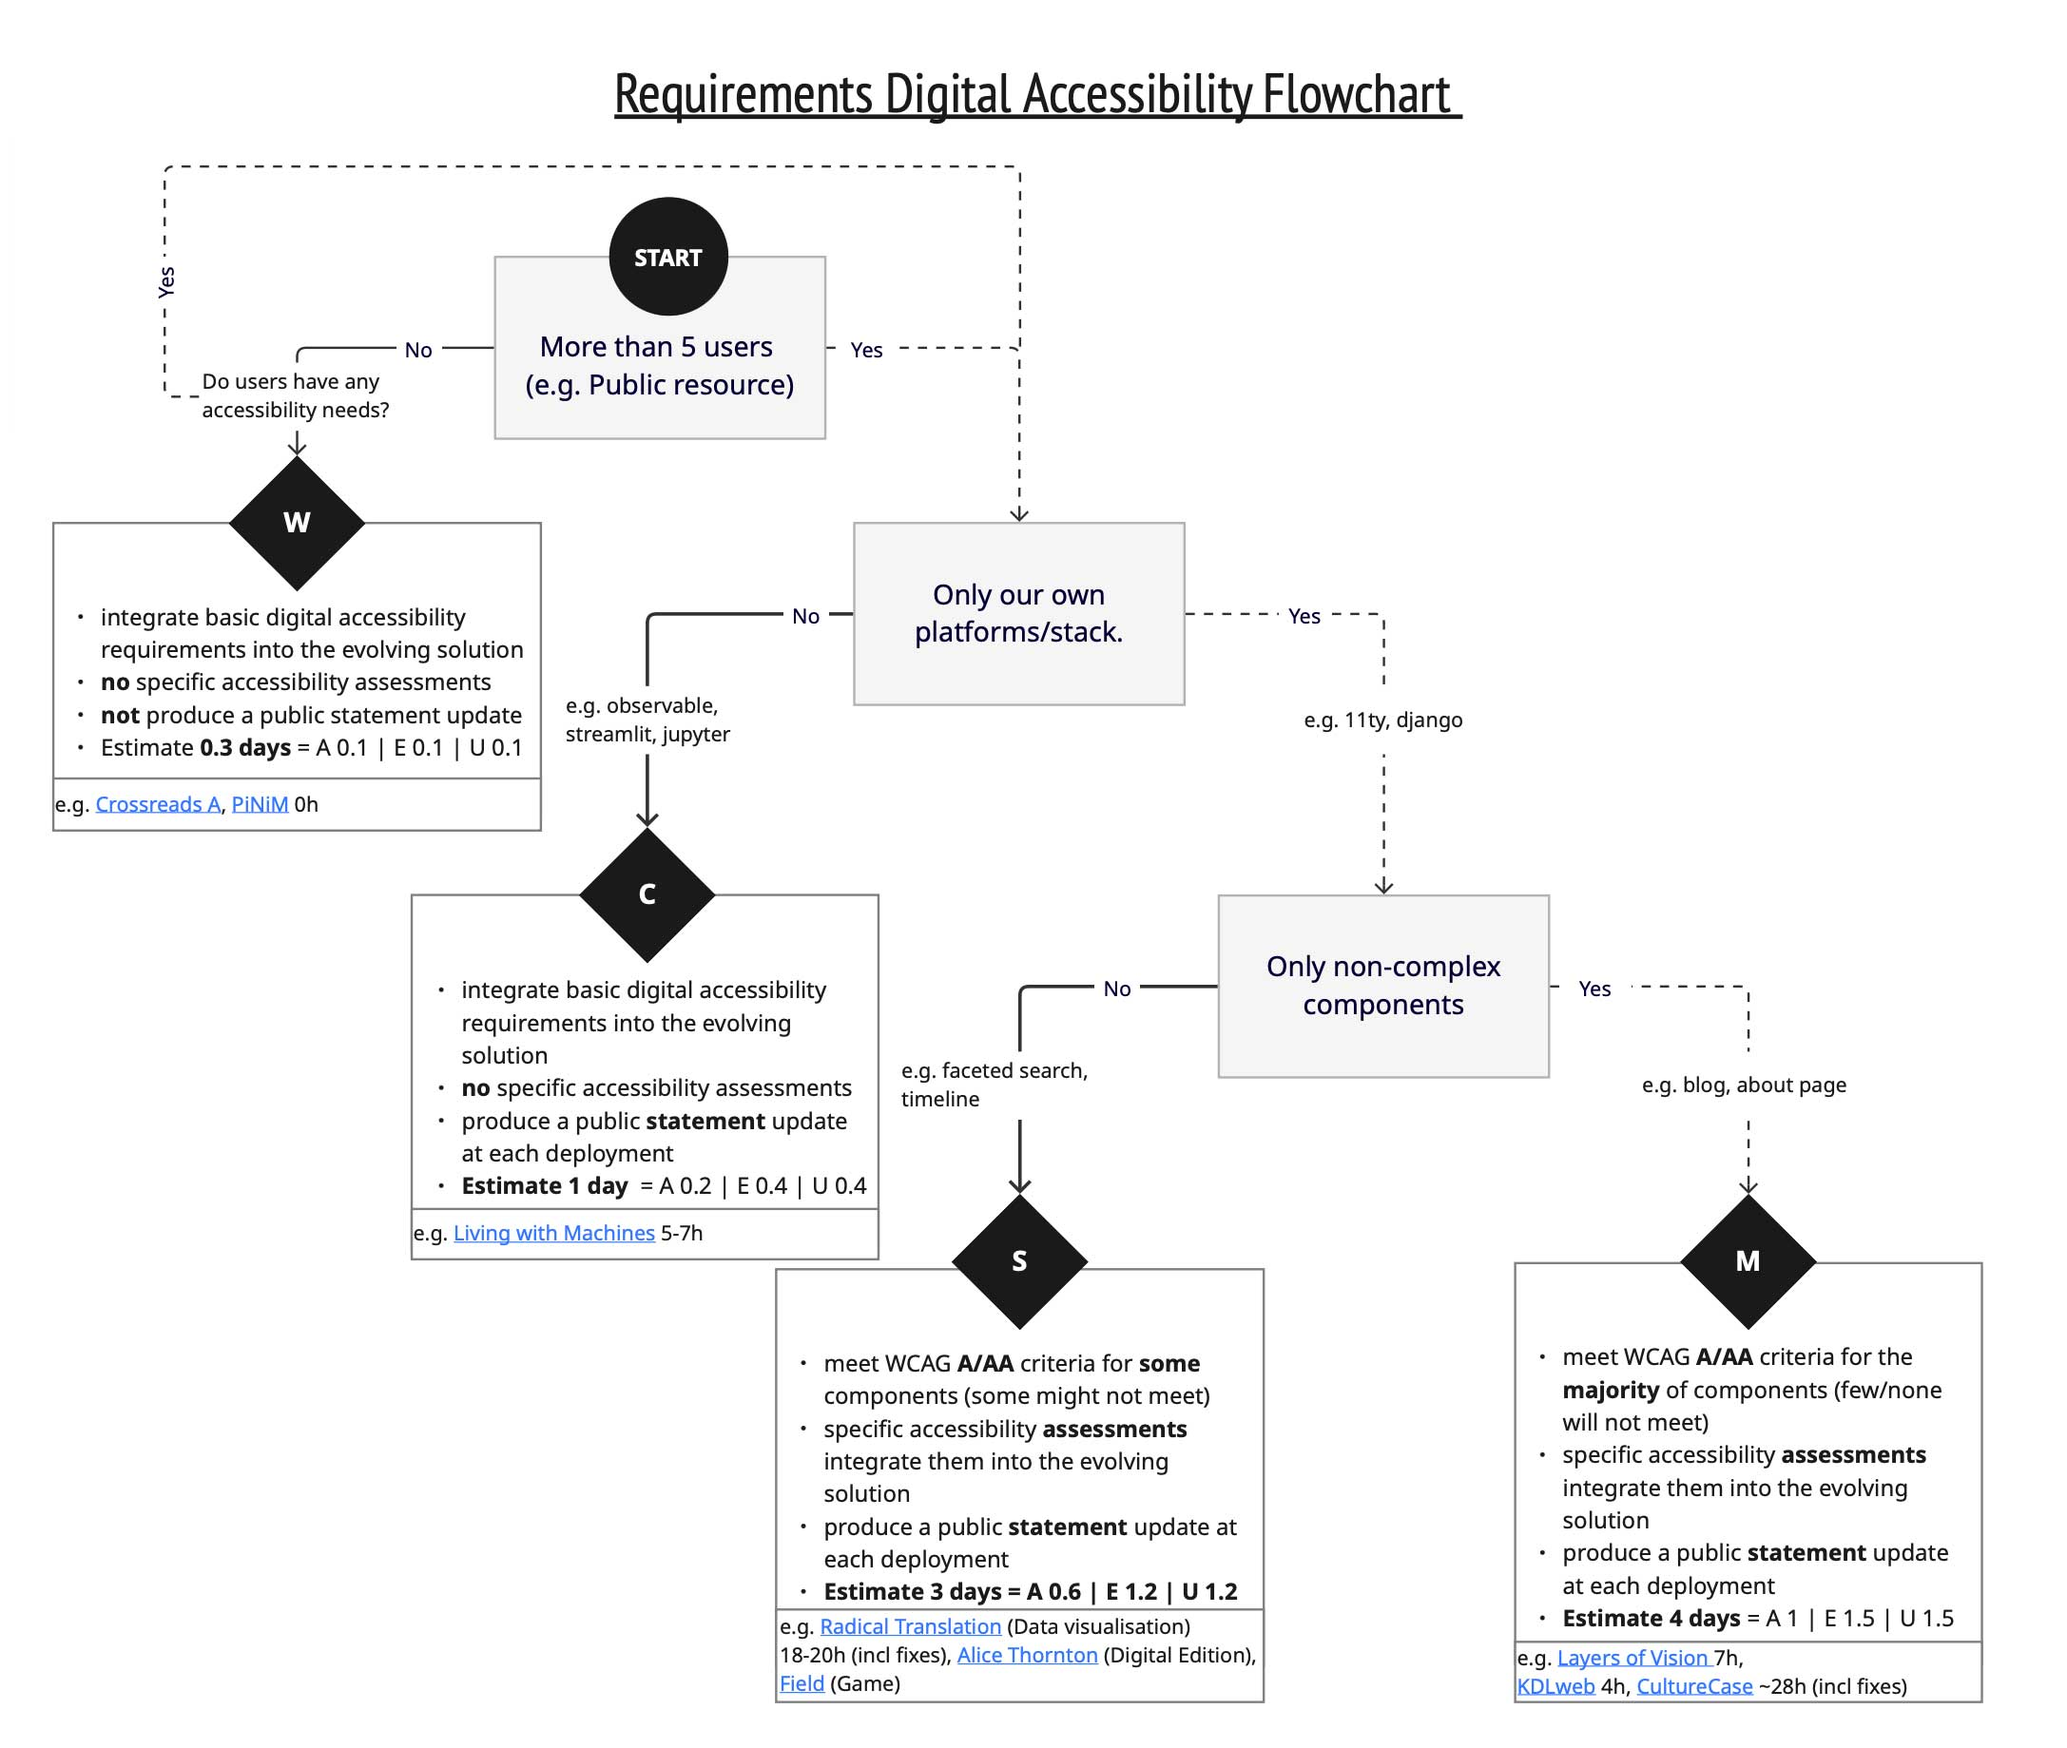
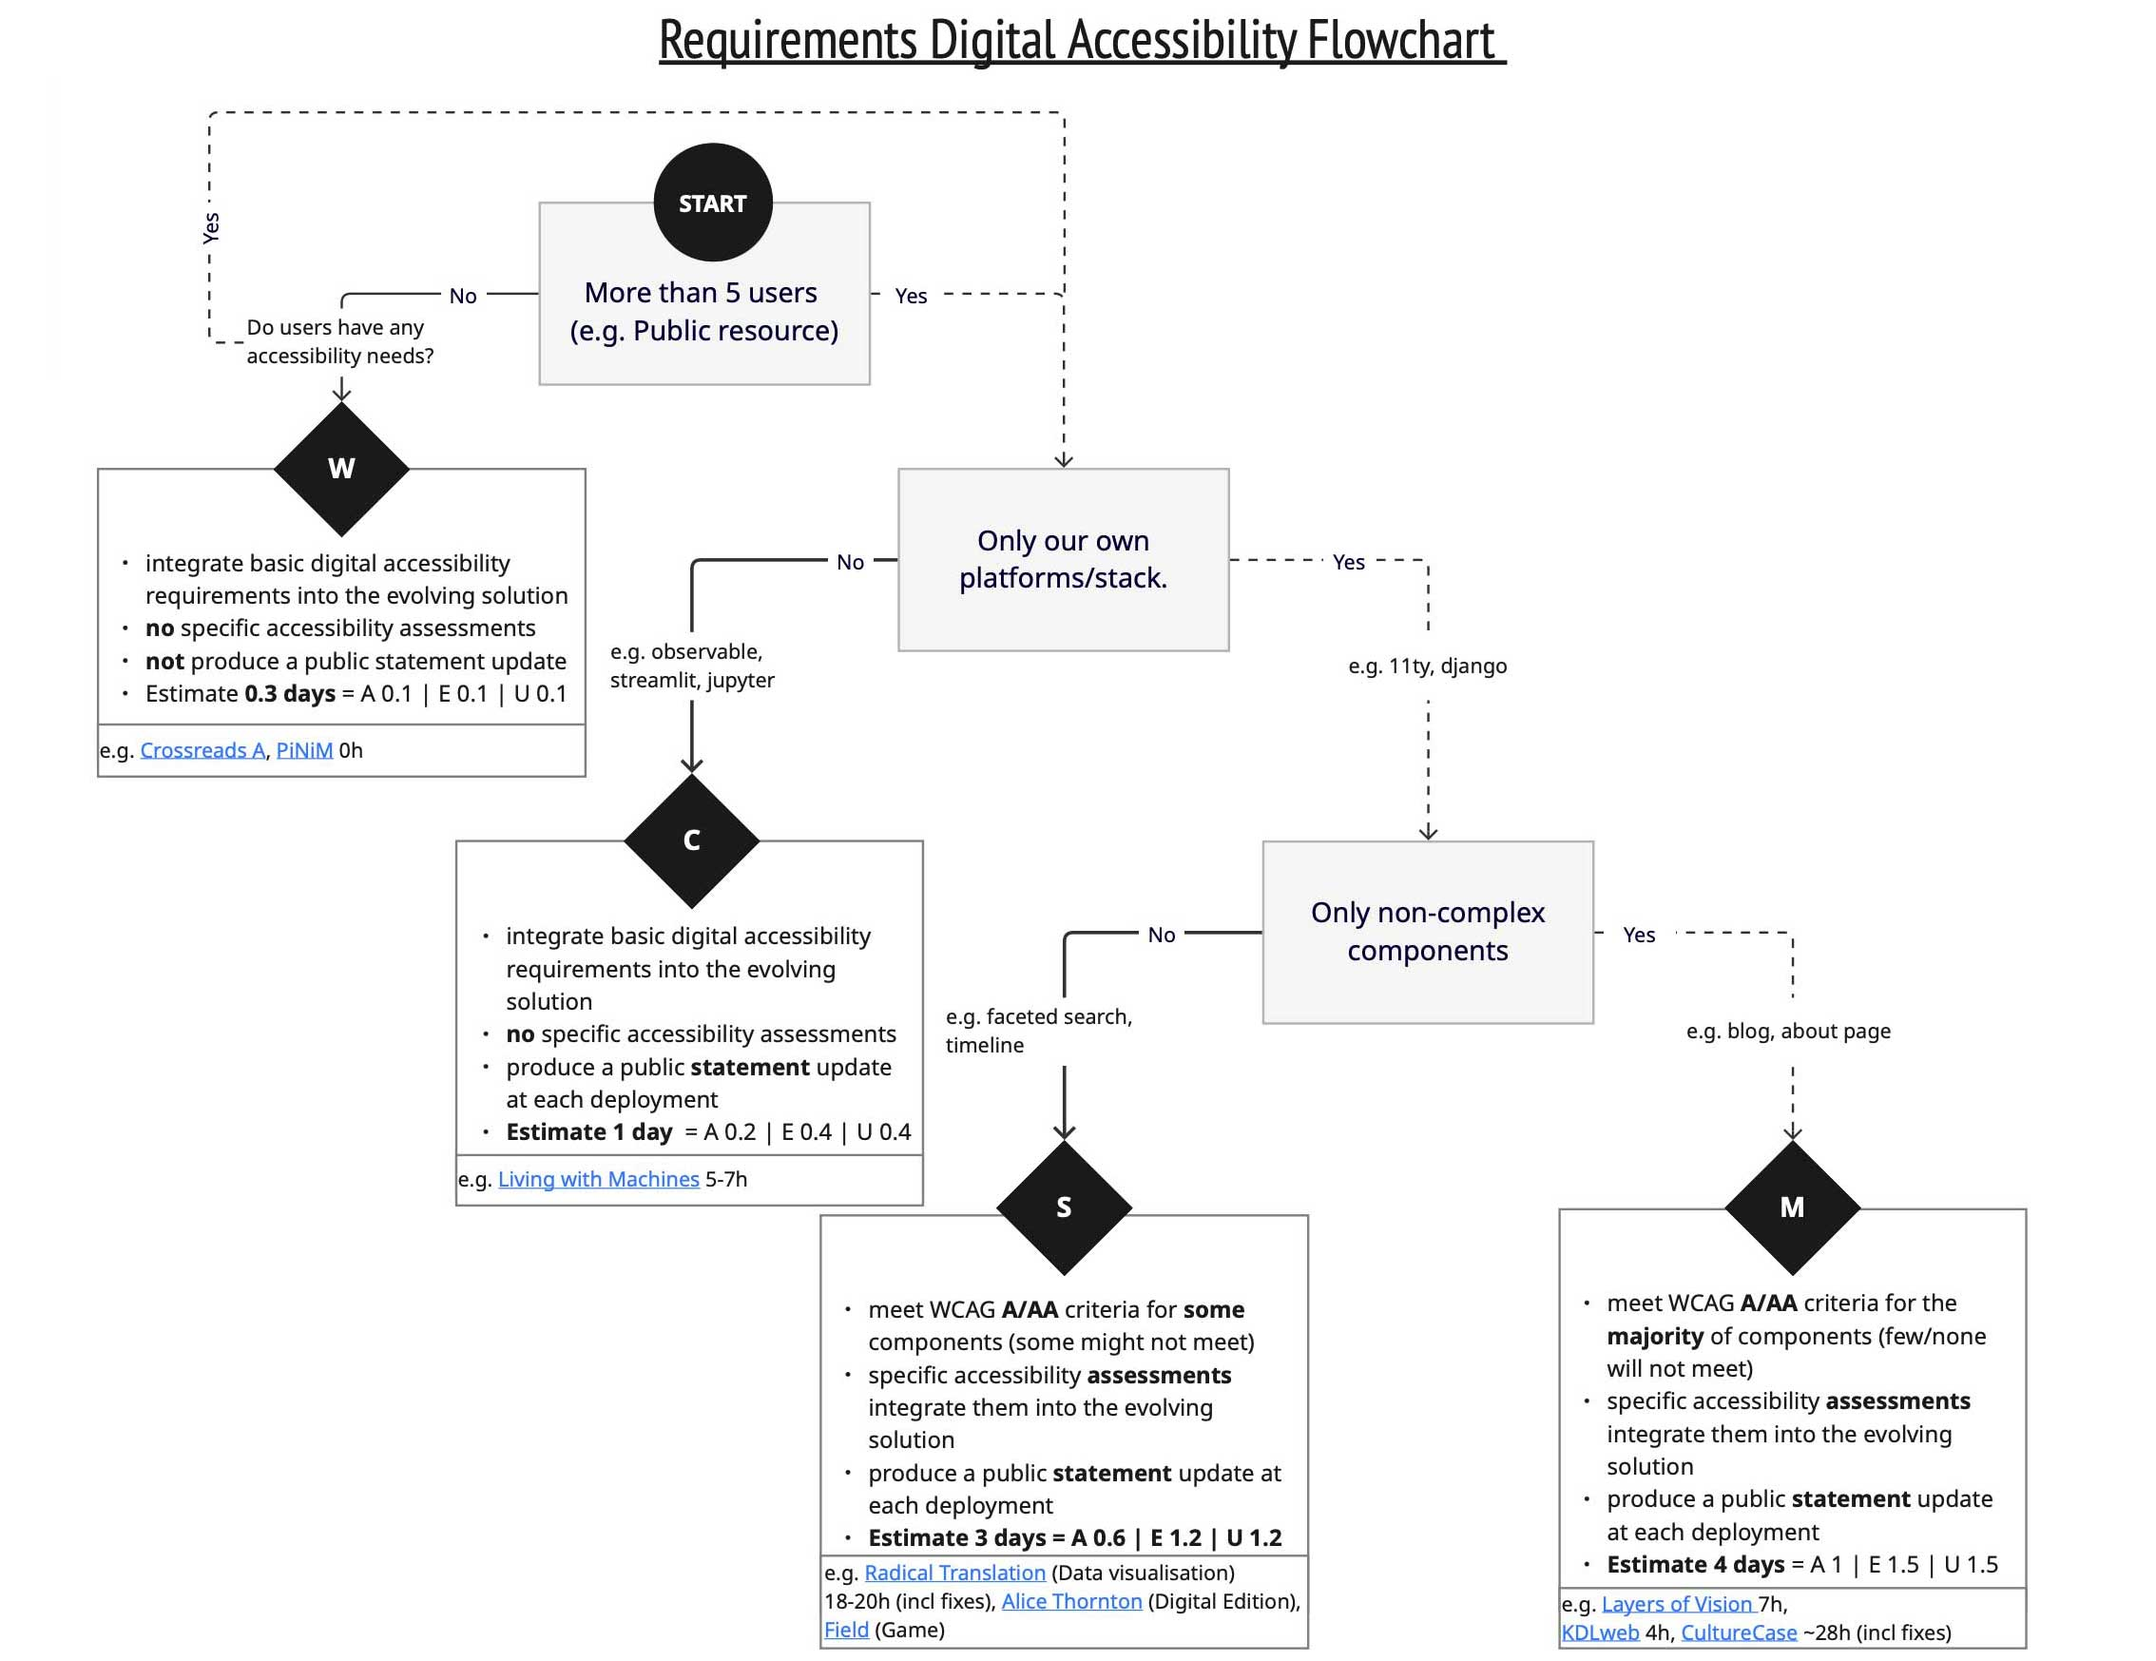
feat: change image

diff --git a/frontend/src/slides/2025-digital-accessibility.md b/frontend/src/slides/2025-digital-accessibility.md
@@ -195,7 +195,7 @@ Estimates need to be updated to adapt for different project budgets/timelines
 
 {% slide %}
 
-![Visual representation of a flowchart detailing the process involved in creating the level of digital accessibility requirements during the feasibility stage for projects](/assets/images/slides/accessibility-reqflowchart.jpg){width=800}
+![Visual representation of a flowchart detailing the process involved in creating the level of digital accessibility requirements during the feasibility stage for projects](/assets/images/slides/accessibility-reqflowchart.jpg){width=600}
 
 {% endslide %}
 
@@ -234,7 +234,7 @@ Reference: [https://www.wcag.com/resource/what-is-wcag/](https://www.wcag.com/re
 
 {% slide %}
 
-<img src="/assets/images/slides/accessibility-inclusive.jpg" alt="An illustration showing individuals from various groups to represent different permanent, temporary or situational impairments and disabilities" style="width:800px">
+![An illustration showing individuals from various groups to represent different permanent, temporary or situational impairments and disabilities](/assets/images/slides/accessibility-inclusive.jpg)
 
 Reference: Adaptation from [Microsoft’s Inclusive Design Toolkit](https://inclusive.microsoft.design/) and  
 [Booking.com](https://medium.com/booking-research/building-accessibility-research-practices-75d82098f286)
@@ -243,7 +243,7 @@ Reference: Adaptation from [Microsoft’s Inclusive Design Toolkit](https://incl
 
 {% slide %}
 
-<img src="/assets/images/slides/accessibility-poster.jpg" alt="An illustration showing individuals from various groups to represent different permanent, temporary or situational impairments and disabilities" style="width:800px">
+![An illustration showing individuals from various groups to represent different permanent, temporary or situational impairments and disabilities](/assets/images/slides/accessibility-poster.jpg)
 
 Reference: Adaptation from and more examples at [gov.uk](https://github.com/UKHomeOffice/posters/blob/master/accessibility/dos-donts/posters_en-UK/accessibility-posters-set.pdf)
 
